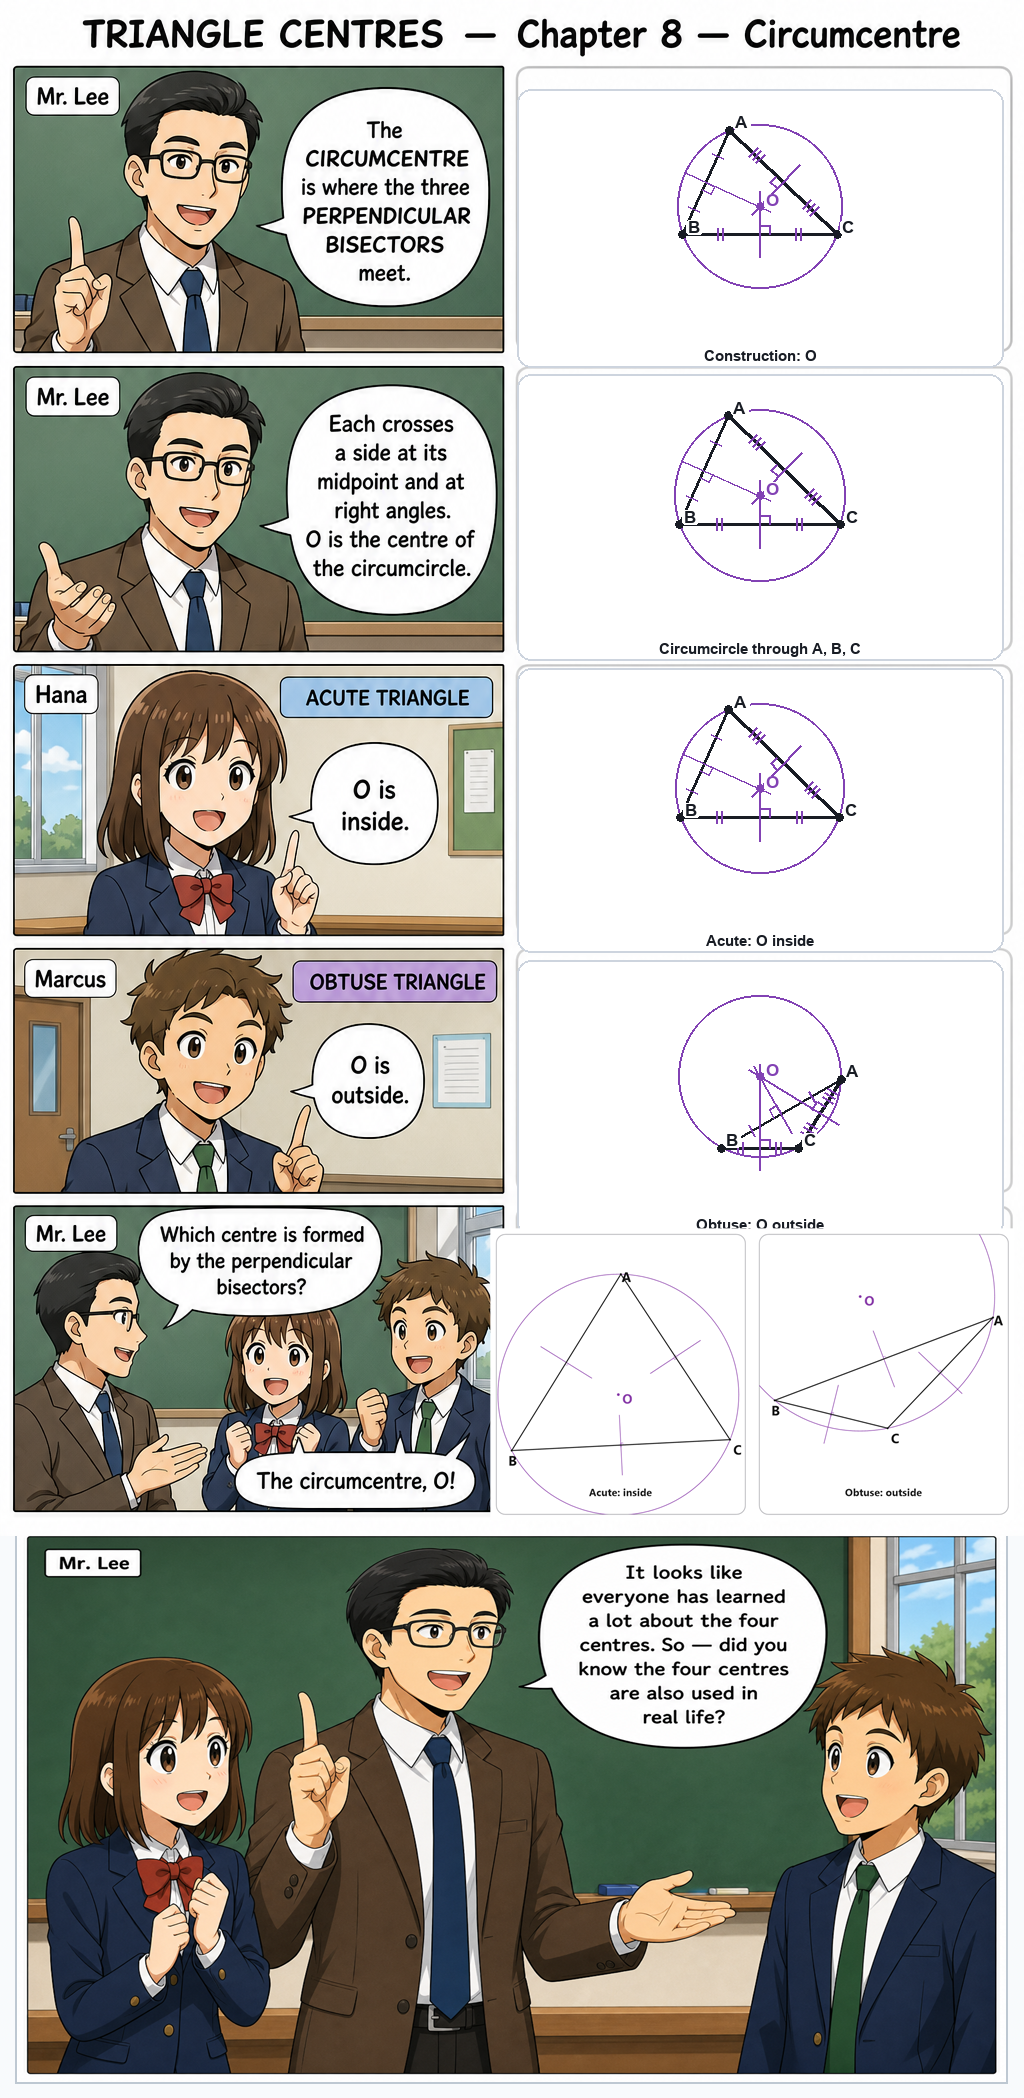
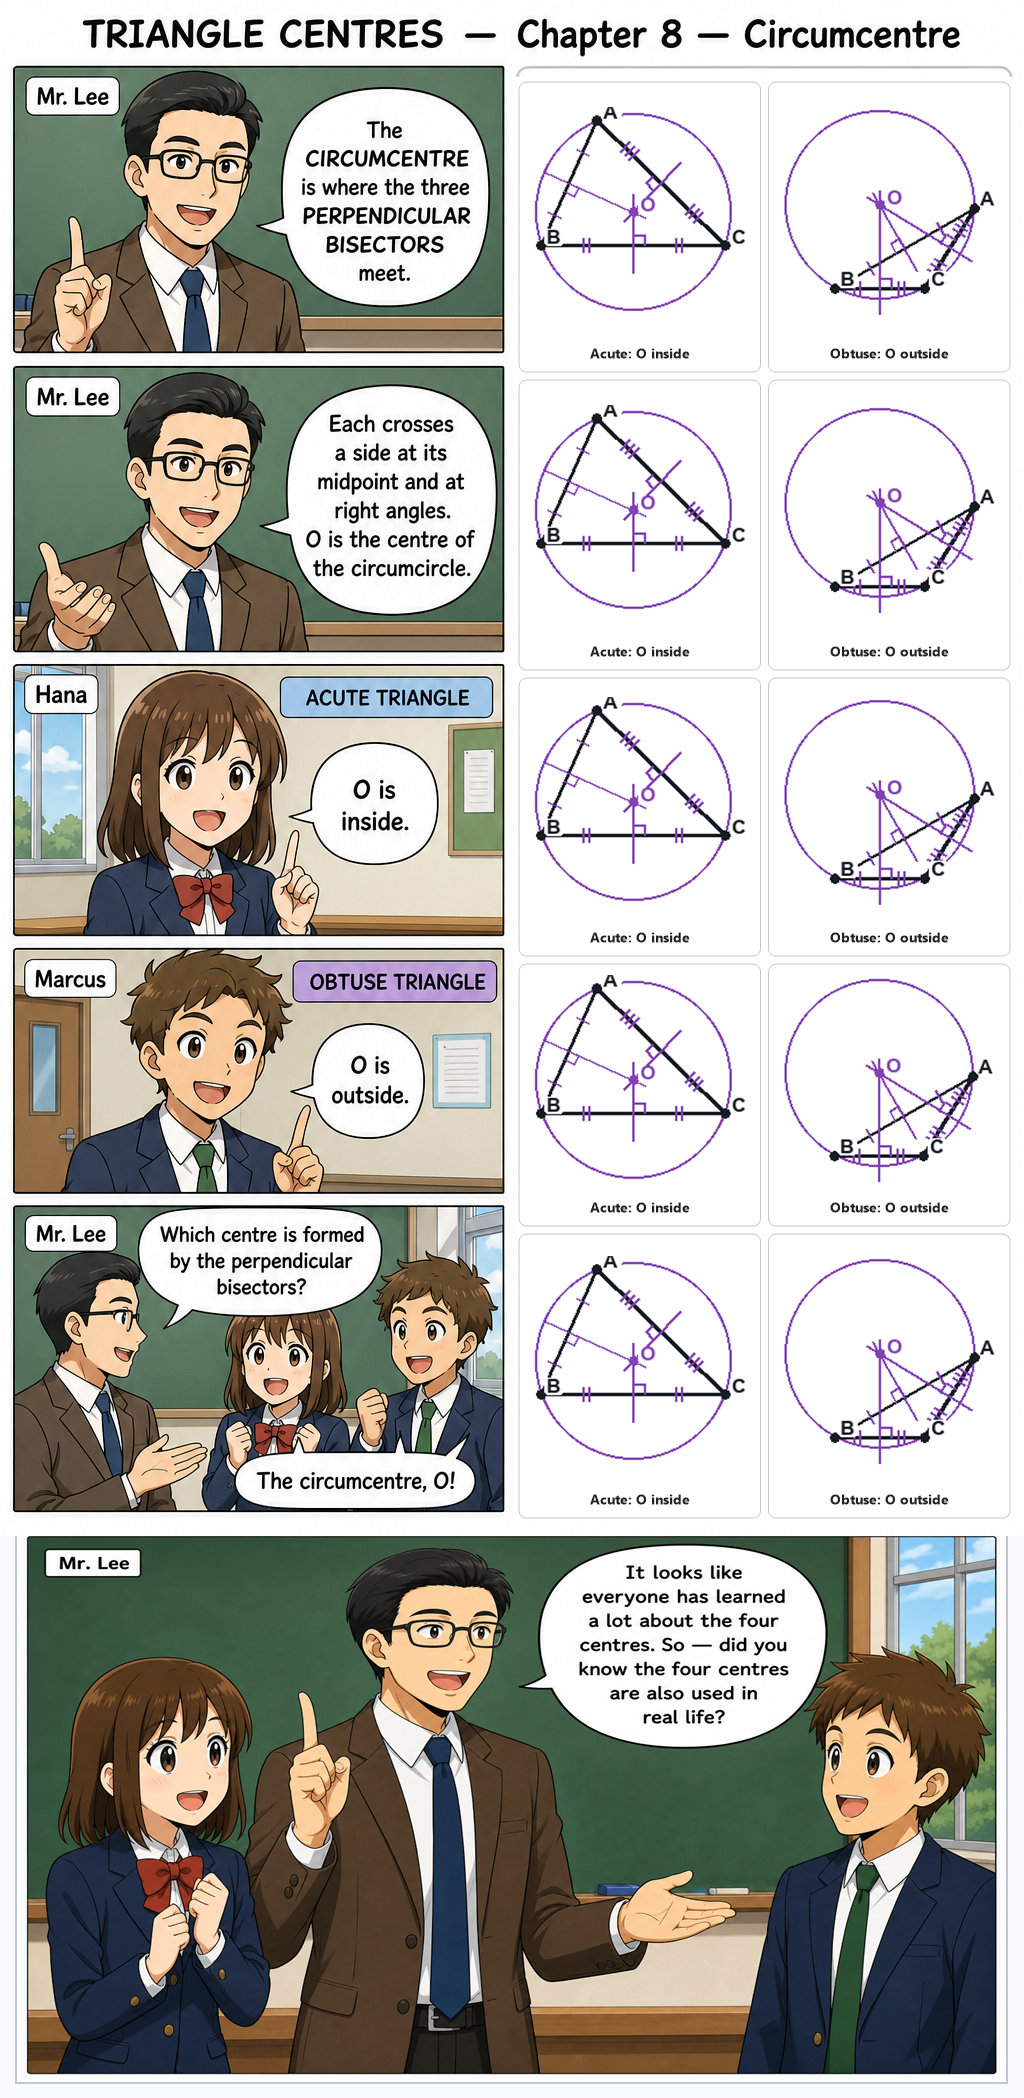
Show acute and obtuse diagrams in every four-centre comic row.

Changed region(s): [[0.4688, 0.031, 1.0, 0.7436], [0.8125, 0.031, 0.9062, 0.062]]

diff --git a/topics/triangle_centres/comics-manifest.js b/topics/triangle_centres/comics-manifest.js
@@ -29,22 +29,22 @@ window.JM28_COMICS = {
       {
         id: "ch5",
         title: "Chapter 5 — Orthocentre",
-        file: "triangle-centres-chapter-5-orthocentre-color.png?v=20260906-twocells",
+        file: "triangle-centres-chapter-5-orthocentre-color.png?v=20260906-allrows",
       },
       {
         id: "ch6",
         title: "Chapter 6 — Centroid",
-        file: "triangle-centres-chapter-6-centroid-color.png?v=20260906-twocells",
+        file: "triangle-centres-chapter-6-centroid-color.png?v=20260906-allrows",
       },
       {
         id: "ch7",
         title: "Chapter 7 — In-centre",
-        file: "triangle-centres-chapter-7-incentre-color.png?v=20260906-twocells",
+        file: "triangle-centres-chapter-7-incentre-color.png?v=20260906-allrows",
       },
       {
         id: "ch8",
         title: "Chapter 8 — Circumcentre",
-        file: "triangle-centres-chapter-8-circumcentre-color.png?v=20260906-twocells2",
+        file: "triangle-centres-chapter-8-circumcentre-color.png?v=20260906-allrows",
       },
       {
         id: "quest1",
